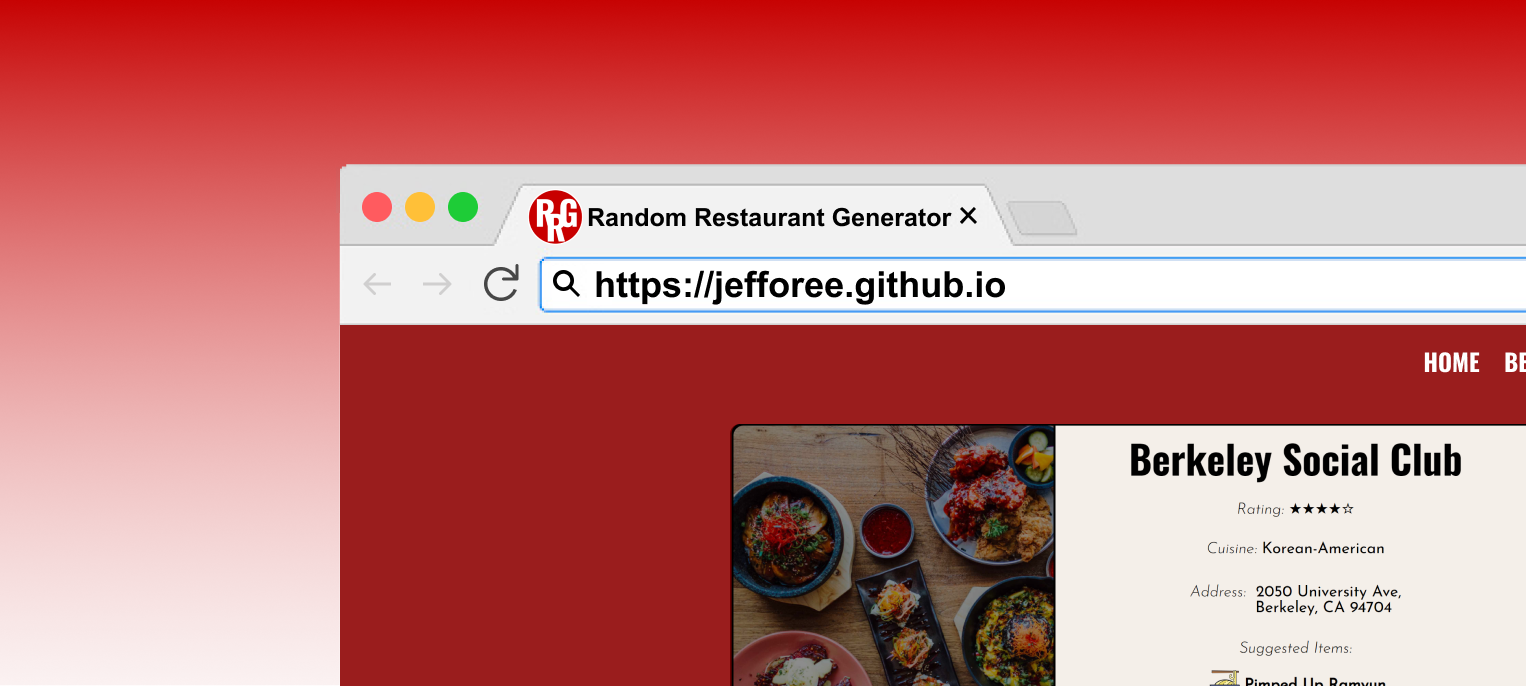
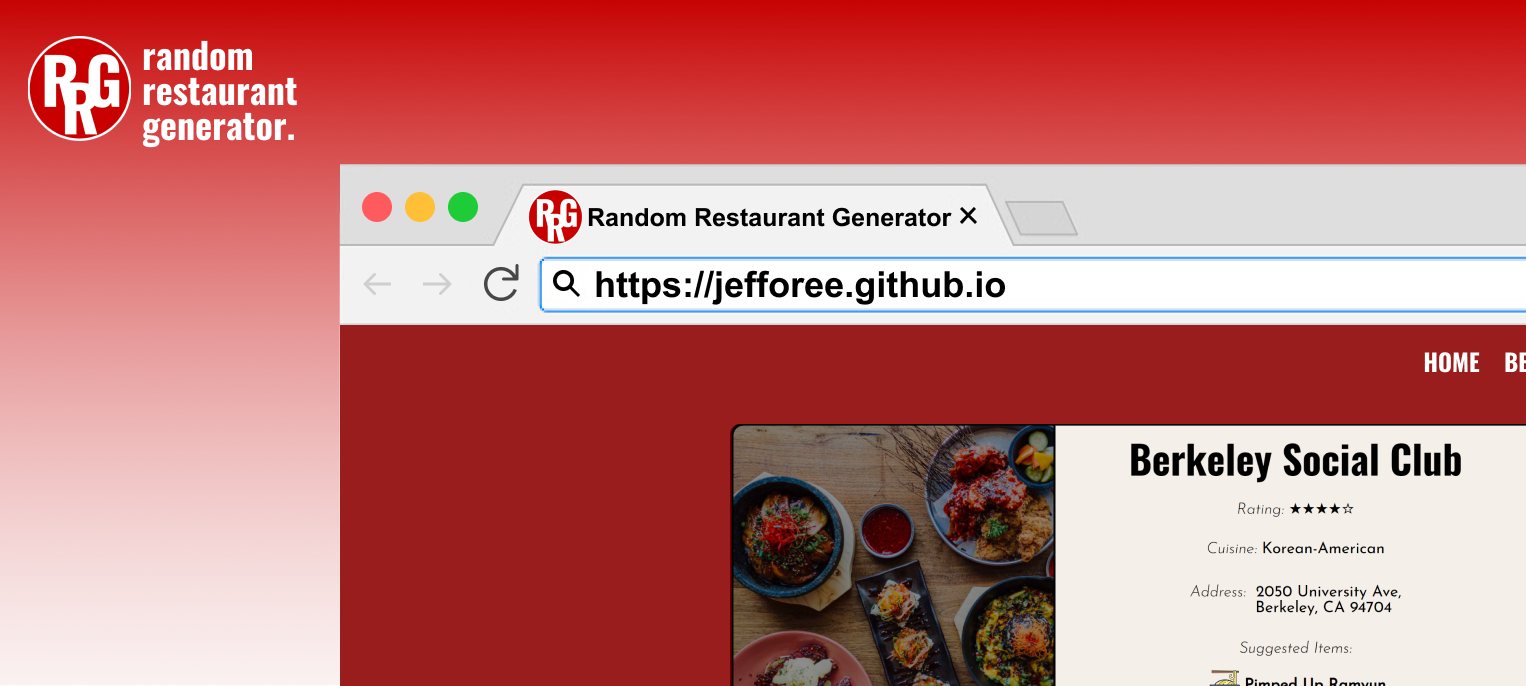
added uni and edited rrg template

Changed region(s): [[0.0, 0.0306, 0.2156, 0.2143]]

diff --git a/index.html b/index.html
@@ -59,13 +59,13 @@
                         </div>
                         <div id = "work_picture"> 
                             <a href = "https://jefforee.github.io/" id = "work_picture_box">
-                                <img src = "assets/img/RRG_template.png" class = "picture">
+                                <img src = "assets/img/Uni_Template.png" class = "picture">
                             </a>
                         </div>
                         <div id = "work_details">
-                            <h5>PERSONAL PROJECT</h5>
-                            <h6>Random Restaurant Generator</h6>
-                            <p>Designed and created a website from scratch with the purpose of helping people decide on restaurant locations to dine at. Offers people ratings, cuisine type, location, and personal suggestions on dishes to order.</p>
+                            <h5>GROUP PROJECT &nbsp &nbsp HACKATHON &nbsp &nbsp APP</h5>
+                            <h6>Uni</h6>
+                            <p>Created an iOS app that removes tracking parameters from links shared on the web. Generates URLs that are privacy-friendly and secures the identity of users.</p>
                         </div>
                     </div>
                 </div>
@@ -78,7 +78,7 @@
                             </a>
                         </div>
                         <div id = "work_details">
-                            <h5>PERSONAL PROJECT</h5>
+                            <h5>PERSONAL PROJECT &nbsp &nbsp WEBSITE</h5>
                             <h6>Random Restaurant Generator</h6>
                             <p>Designed and created a website from scratch with the purpose of helping people decide on restaurant locations to dine at. Offers people ratings, cuisine type, location, and personal suggestions on dishes to order.</p>
                         </div>
